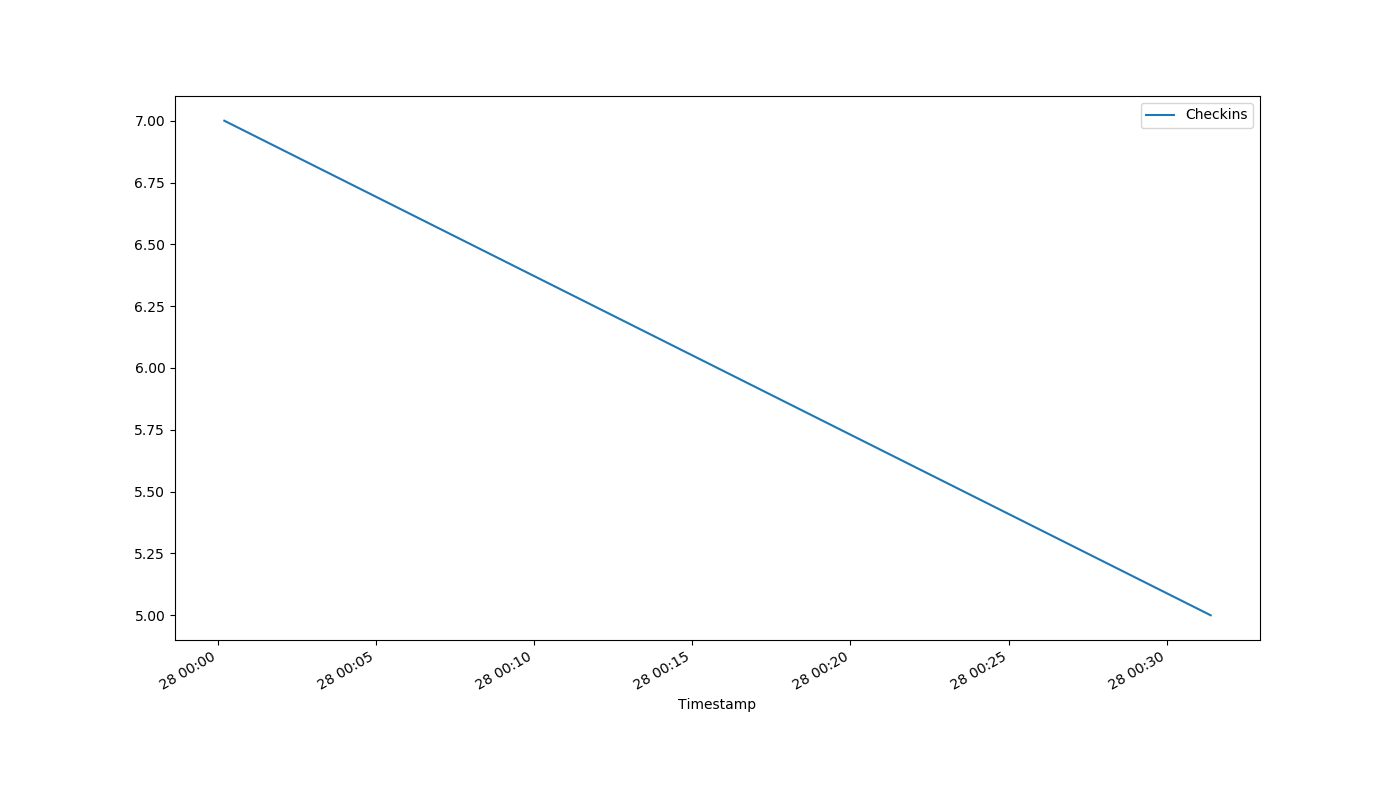
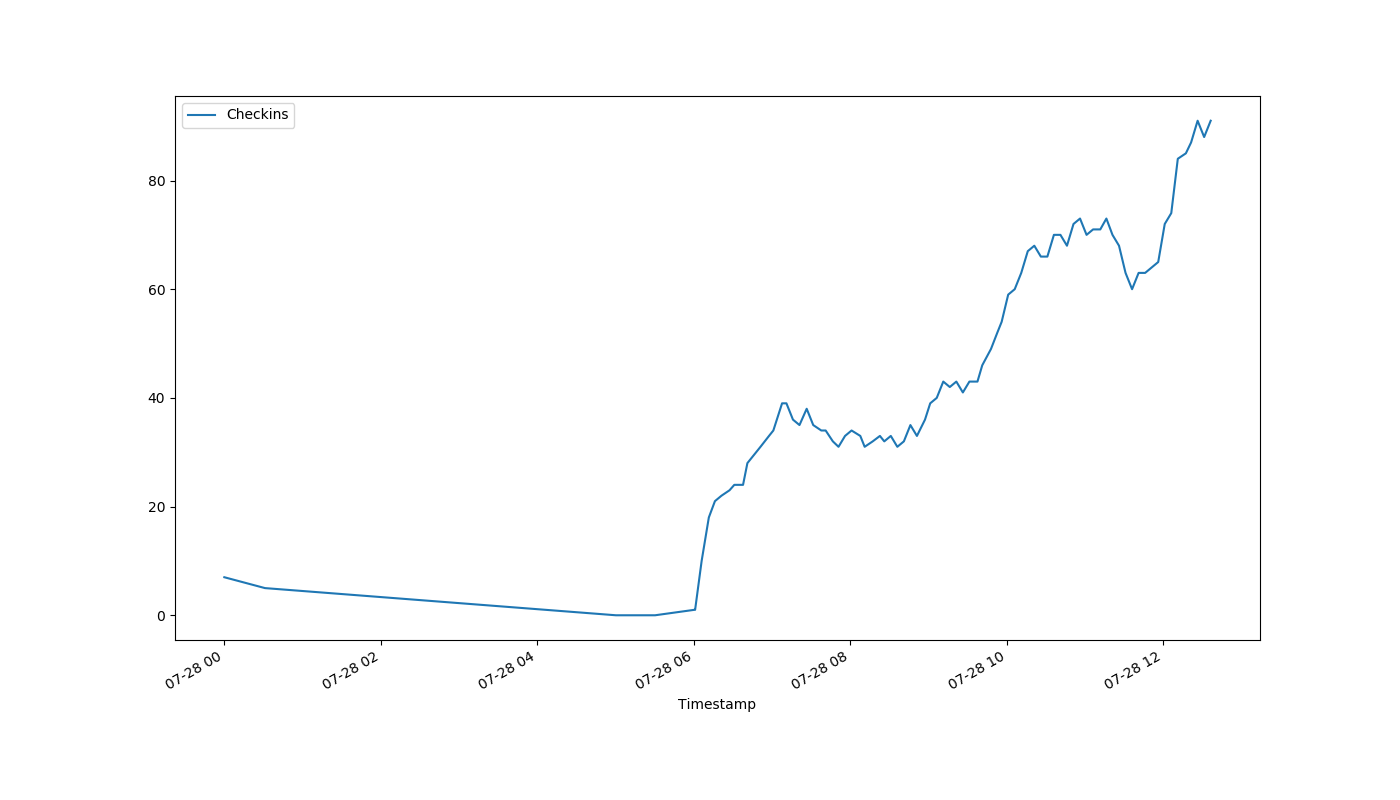
auto-Jul-28-12:41:11

diff --git a/index.html b/index.html
@@ -1,1 +1,1 @@
-<!DOCTYPE html><html><head><meta http-equiv="refresh" content="30"><link rel='stylesheet' href='holmcurrent.css'></head><body><p id='count'>5</p><div id='graph-wrap'><img id='graph' src='holmgraph-Jul-28.png'></div><p id='updated'>Last updated 00:32:02 / 00:31:23</p></body></html>
+<!DOCTYPE html><html><head><meta http-equiv="refresh" content="30"><link rel='stylesheet' href='holmcurrent.css'></head><body><p id='count'>91</p><div id='graph-wrap'><img id='graph' src='holmgraph-Jul-28.png'></div><p id='updated'>Last updated 12:37:01 / 12:36:16</p></body></html>
